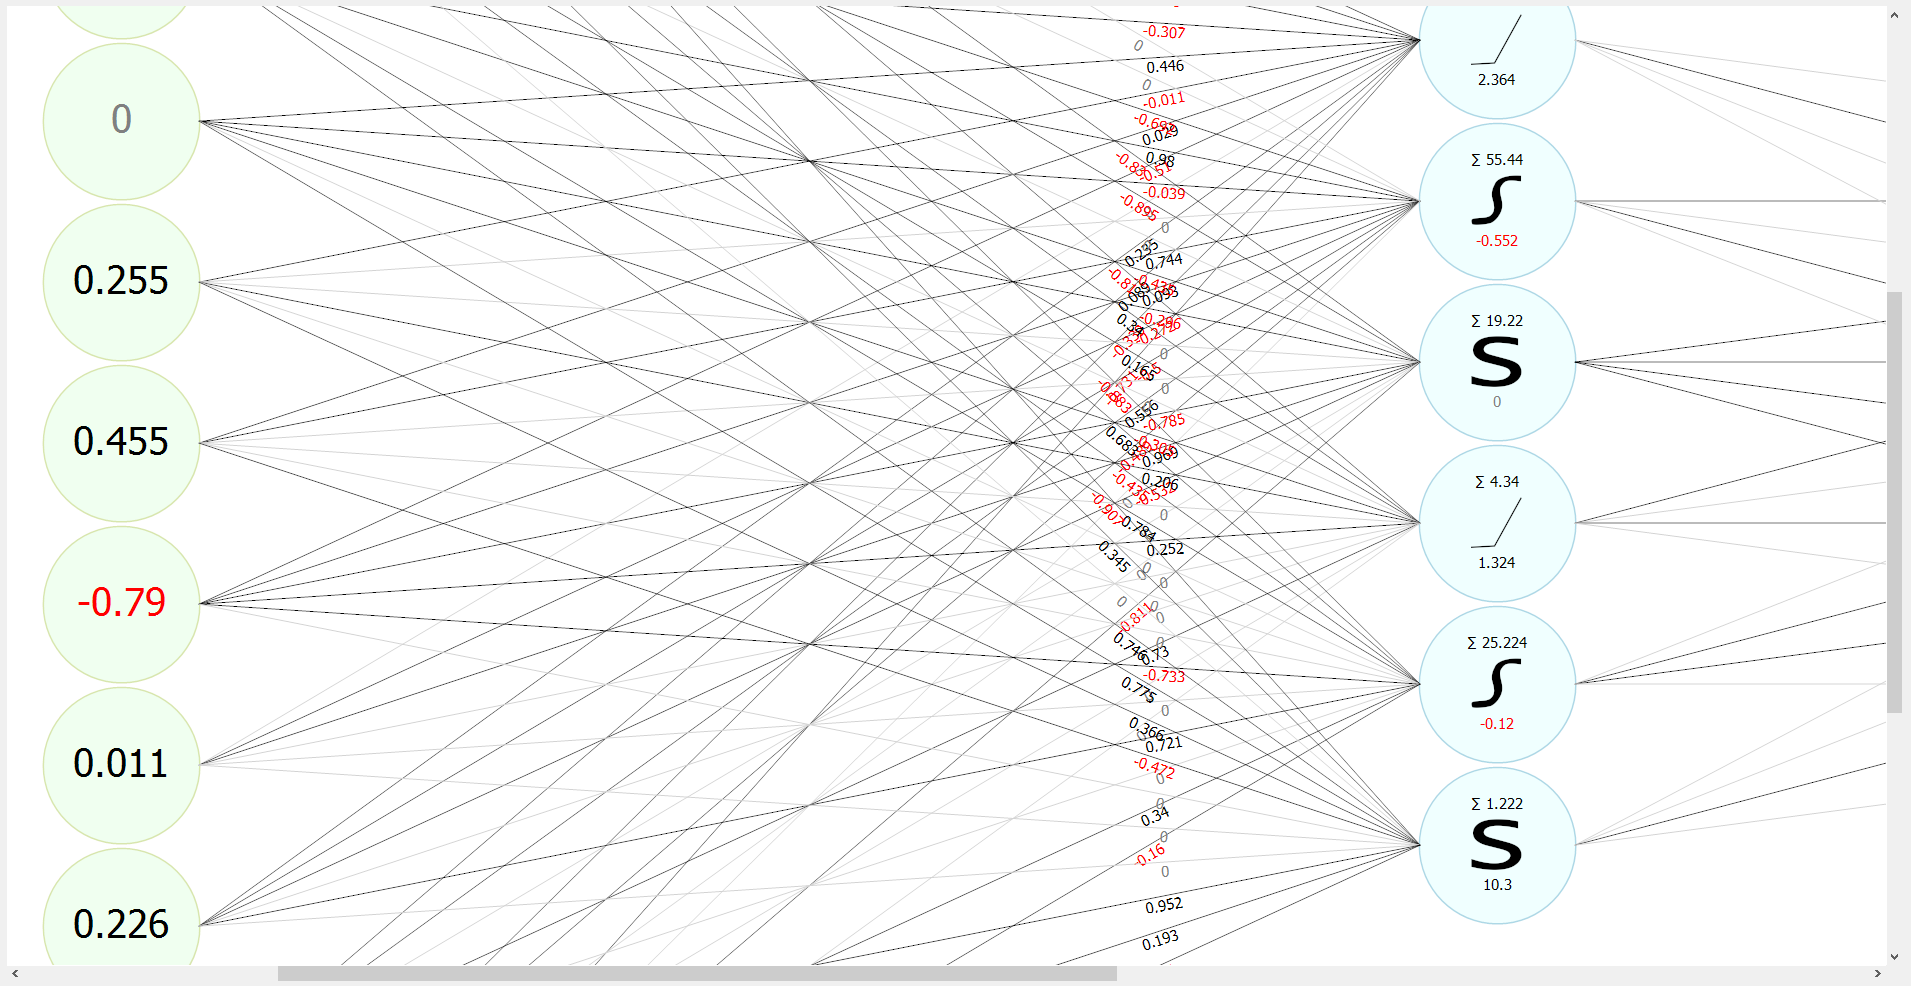
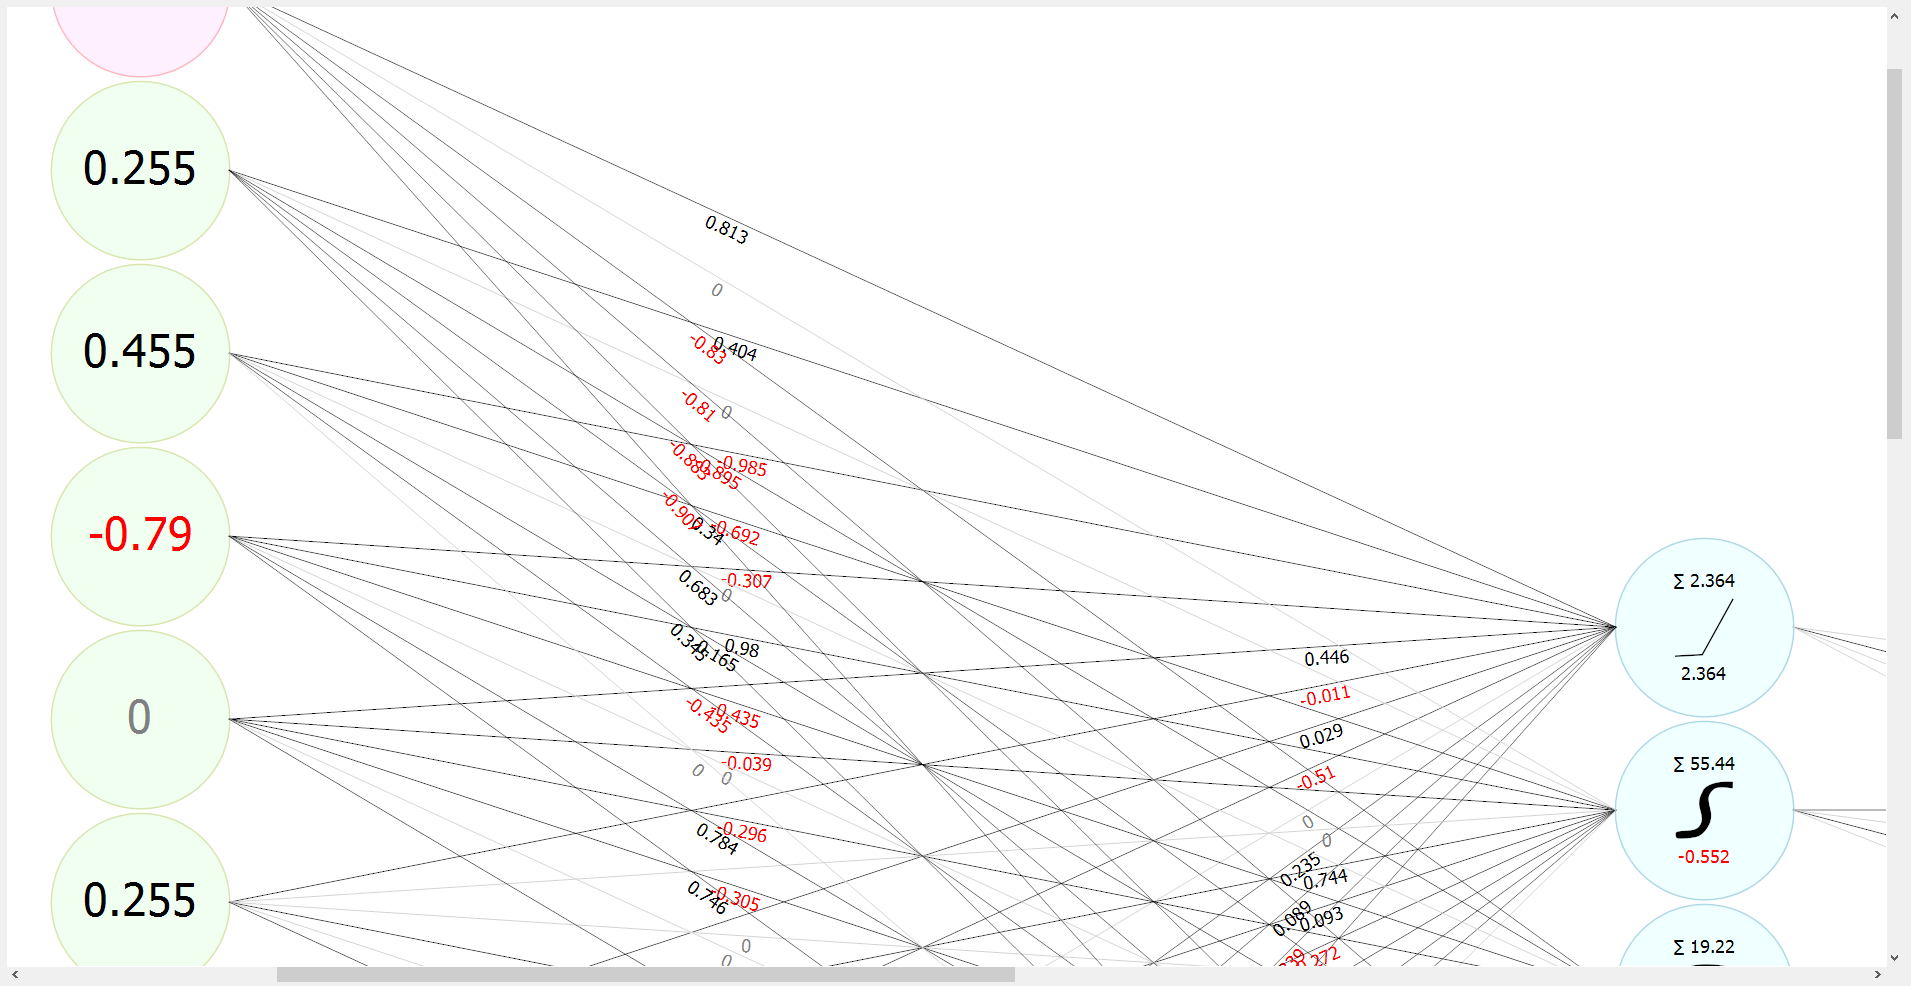
- Weight values positioning depending on connector angle to get them more readable! - Minor positioning calculation optimization: Save and reuse previous positioning values for the same layer's nodes

diff --git a/NeuralNetworkViewer/Drawing/PreCalc/EdgeSizesPreCalc.cs b/NeuralNetworkViewer/Drawing/PreCalc/EdgeSizesPreCalc.cs
@@ -2,17 +2,54 @@
 {
     internal class EdgeSizesPreCalc
     {
-        internal void Initialize(int totalWidth, double widthPortion, int textWidth)
+        private int _xPositionFromPrevious = -1;
+        private EdgeSizesPreCalcValues previousValues;
+
+        internal EdgeSizesPreCalcValues GetValues(int xPositionFrom, int xPositionTo)
         {
-            this.TotalWidth = totalWidth;
-            this.WidthPortion = widthPortion;
-            this.TextWidth = textWidth;
-            IsInitilized = true;
+            if (xPositionFrom == _xPositionFromPrevious)
+                return previousValues;
+
+            previousValues = PreCalc(xPositionFrom, xPositionTo);
+            _xPositionFromPrevious = xPositionFrom;
+
+            return previousValues;
         }
 
-        internal bool IsInitilized { get; private set; } = false;
-        internal int TotalWidth { get; private set; }
-        internal double WidthPortion { get; private set; }
-        internal int TextWidth { get; private set; }
+        private EdgeSizesPreCalcValues PreCalc(int xPositionFrom, int xPositionTo)
+        {
+            var totalWidth = xPositionTo - xPositionFrom;
+            var textWidth = (int)(totalWidth / 4.0);
+
+            double xOffsetFar = totalWidth - totalWidth / 3;
+            var widthPortionFar = xOffsetFar / totalWidth;
+            var farX = xPositionTo - totalWidth / 3;
+
+            double xOffsetNear = totalWidth / 4.0;
+            var widthPortionNear = xOffsetNear / totalWidth;
+            var nearX = (int)(xPositionFrom + xOffsetNear);
+
+            return new EdgeSizesPreCalcValues(totalWidth, widthPortionNear, widthPortionFar, nearX, farX, textWidth);
+        }
+
+        internal class EdgeSizesPreCalcValues
+        {
+            internal EdgeSizesPreCalcValues(int totalWidth, double widthPortionNear, double widthPortionFar, int nearX, int farX, int textWidth)
+            {
+                this.TotalWidth = totalWidth;
+                this.WidthPortionNear = widthPortionNear;
+                this.WidthPortionFar = widthPortionFar;
+                this.NearX = nearX;
+                this.FarX = farX;
+                this.TextWidth = textWidth;
+            }
+
+            internal int TotalWidth { get; private set; }
+            internal double WidthPortionNear { get; private set; }
+            internal double WidthPortionFar { get; private set; }
+            internal int NearX { get; private set; }
+            internal int FarX { get; private set; }
+            internal int TextWidth { get; private set; }
+        }
     }
 }

diff --git a/NeuralNetworkViewer/Drawing/Nodes/EdgeDrawing.cs b/NeuralNetworkViewer/Drawing/Nodes/EdgeDrawing.cs
@@ -52,34 +52,29 @@ namespace NeuralNetworkVisualizer.Drawing.Nodes
 
         private (Rectangle TextRectangle, float Angle) GetSizesPositions()
         {
-            if (!_cache.IsInitilized)
-            {
-                int totalWidth = _toPosition.X - _fromPosition.X;
-                double xOffset = (totalWidth - totalWidth / 3);
-                double widthPortion = xOffset / totalWidth;
-
-                int textWidth = (int)(totalWidth / 4d);
-
-                _cache.Initialize(totalWidth, widthPortion, textWidth);
-            }
-
             int totalHeight = _toPosition.Y - _fromPosition.Y;
+            var sizePosValues = _cache.GetValues(_fromPosition.X, _toPosition.X);
 
             int y;
-            if (totalHeight > 0)
+            int x;
+            float angle = (float)(Math.Atan2(totalHeight, sizePosValues.TotalWidth) * (180d / Math.PI));
+
+            if (angle >= 0) //it depends on connector angle
             {
-                y = (int)(_fromPosition.Y + Math.Round(_cache.WidthPortion * totalHeight));
+                y = (int)(_fromPosition.Y + sizePosValues.WidthPortionNear * totalHeight);
+                x = sizePosValues.NearX;
             }
             else
             {
-                var totalHeightPositive = totalHeight * -1; //make positive
-                y = (int)(_toPosition.Y + Math.Round(totalHeightPositive - (_cache.WidthPortion * totalHeightPositive)));
+                var totalHeightPositive = totalHeight * -1; //turn positive
+                y = (int)(_toPosition.Y + Math.Round(totalHeightPositive - (sizePosValues.WidthPortionFar * totalHeightPositive)));
+                x = sizePosValues.FarX;
             }
 
-            float angle = (float)(Math.Atan2(totalHeight, _cache.TotalWidth) * (180d / Math.PI));
-            int x = (int)(_toPosition.X - (_cache.TotalWidth / 3d));
+            
 
-            return (new Rectangle(x, y, _cache.TextWidth, _textHeight), angle);
+
+            return (new Rectangle(x, y, sizePosValues.TextWidth, _textHeight), angle);
         }
     }
 }

diff --git a/Example/Form1.cs b/Example/Form1.cs
@@ -47,7 +47,7 @@ namespace WindowsFormsApp1
             NeuralNetworkVisualizerControl1.Preferences.Edges.Connector = new Formatter<Pen>((v) => v == 0.0 ? new Pen(Color.LightGray) : new Pen(Color.Black));
 
             //To remove layer titles
-            NeuralNetworkVisualizerControl1.Preferences.Layers = null;
+            //NeuralNetworkVisualizerControl1.Preferences.Layers = null;
         }
 
         private void btnStart_Click(object sender, EventArgs e)
